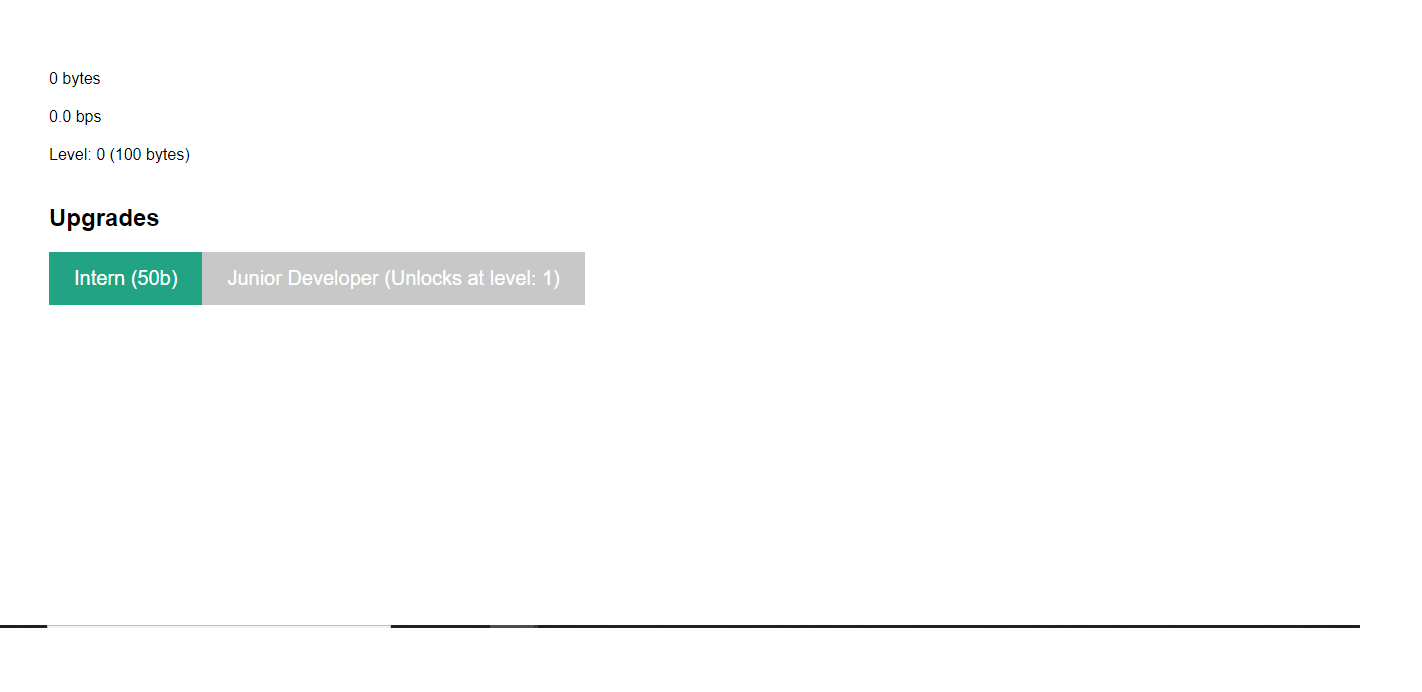
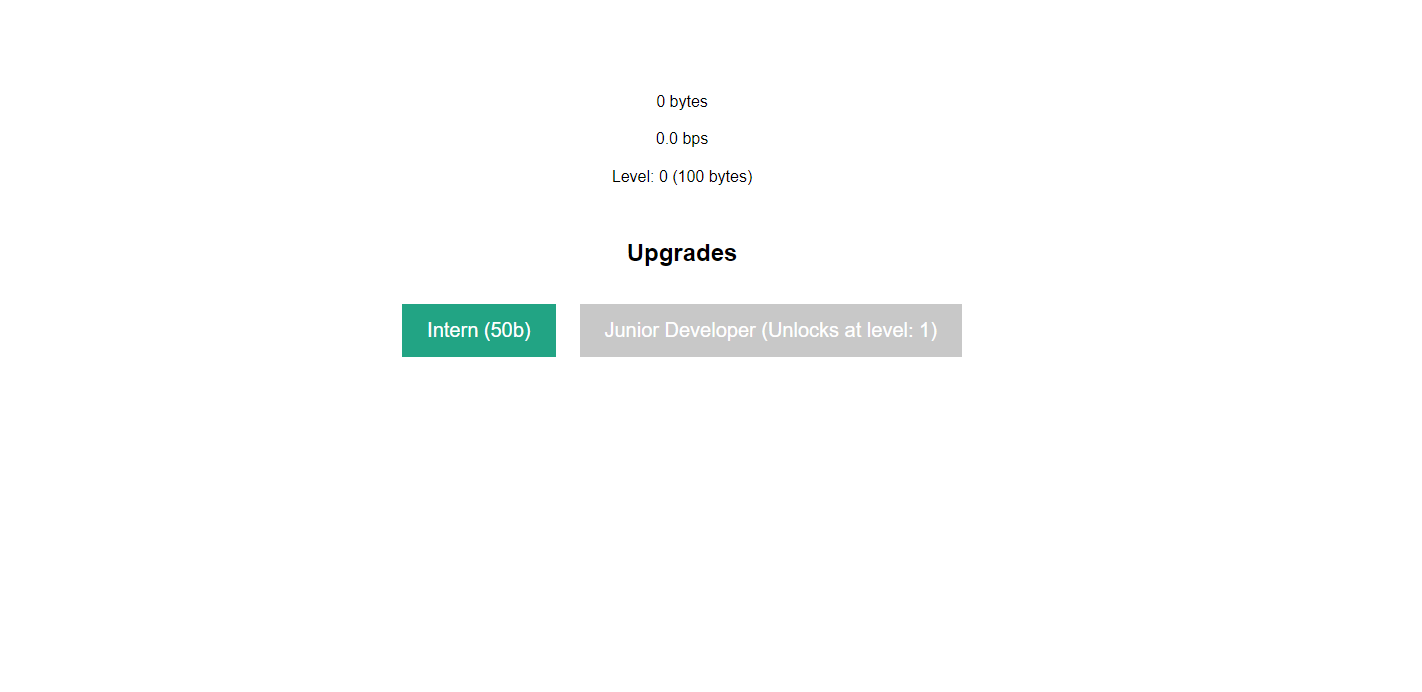
Style the code to display its elements in the centre of page

diff --git a/coder_game_js/assets/css/main.css b/coder_game_js/assets/css/main.css
@@ -1,6 +1,7 @@
 * {
-  margin: 0em;
-  padding: 10px;
+  margin: 0.6em;
+  padding: 5px;
+  text-align: center;
   -webkit-box-sizing: border-box;
   box-sizing: border-box;
 }
